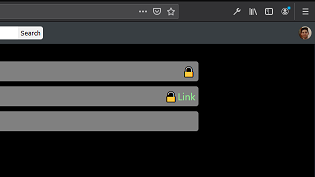
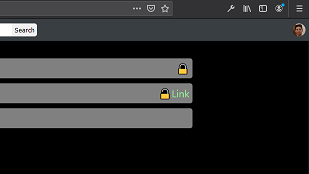
updated readme images

Changed region(s): [[0.0, 0.3161, 0.6408, 0.7471], [0.0, 0.0, 1.0, 0.2586]]

diff --git a/README.md b/README.md
@@ -28,10 +28,7 @@ The backend/database uses Node/Exress/PostrgreSQL Socket.io and Passport.js, whi
 ![Search Results Image](readme_images/search-results.png)
 
 
-### 4. **To Link to a user, after searching for them, to the right of their name, click the ":unlock:" emoji, if the emoji shows a ":lock:" then you have been linked!**
-             Linking             |        Unlinking
-:-------------------------------:|:-------------------------------:
-![](readme_images/link_hover1.png) | ![](readme_images/unlink_hover1.png)
+### 4. **To Link to a user, click the ":unlock:" emoji, if the emoji shows a ":lock:" then you have been linked!**
 
 ![Link Image](readme_images/link_hover1.png) ![Unlink Image](readme_images/unlink_hover1.png)
 
